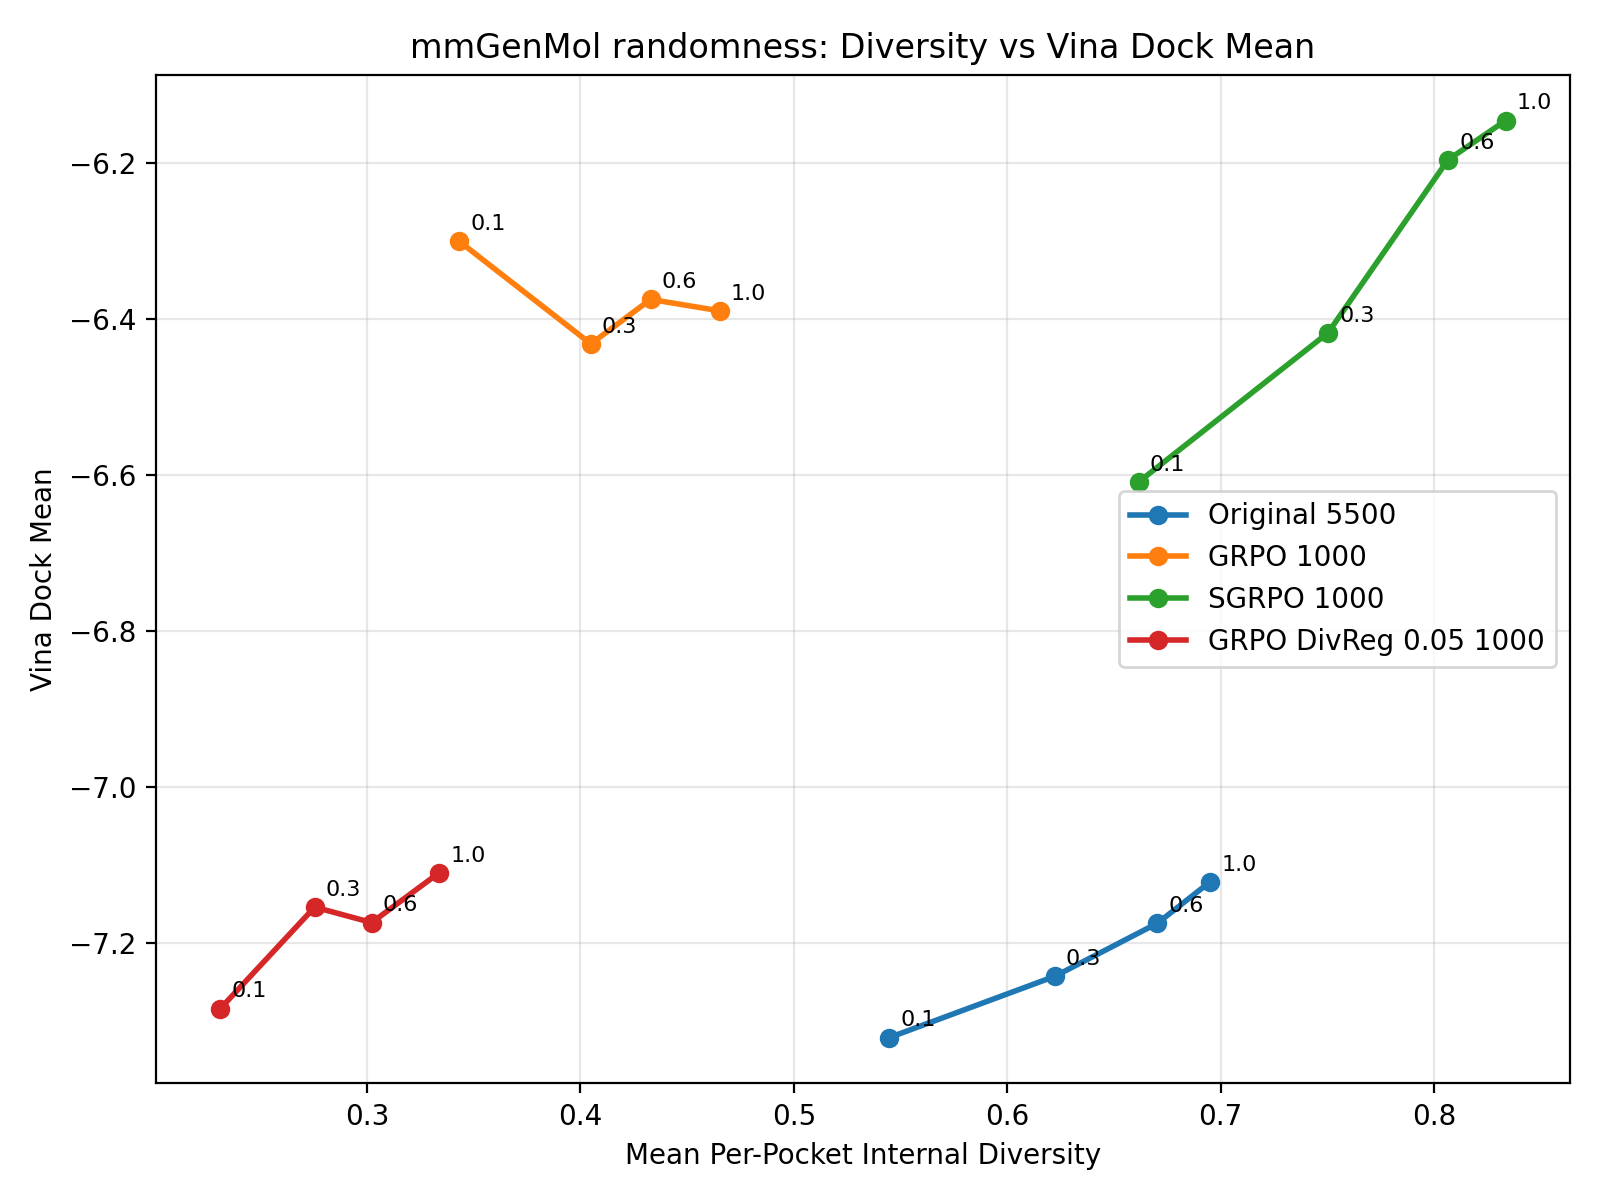
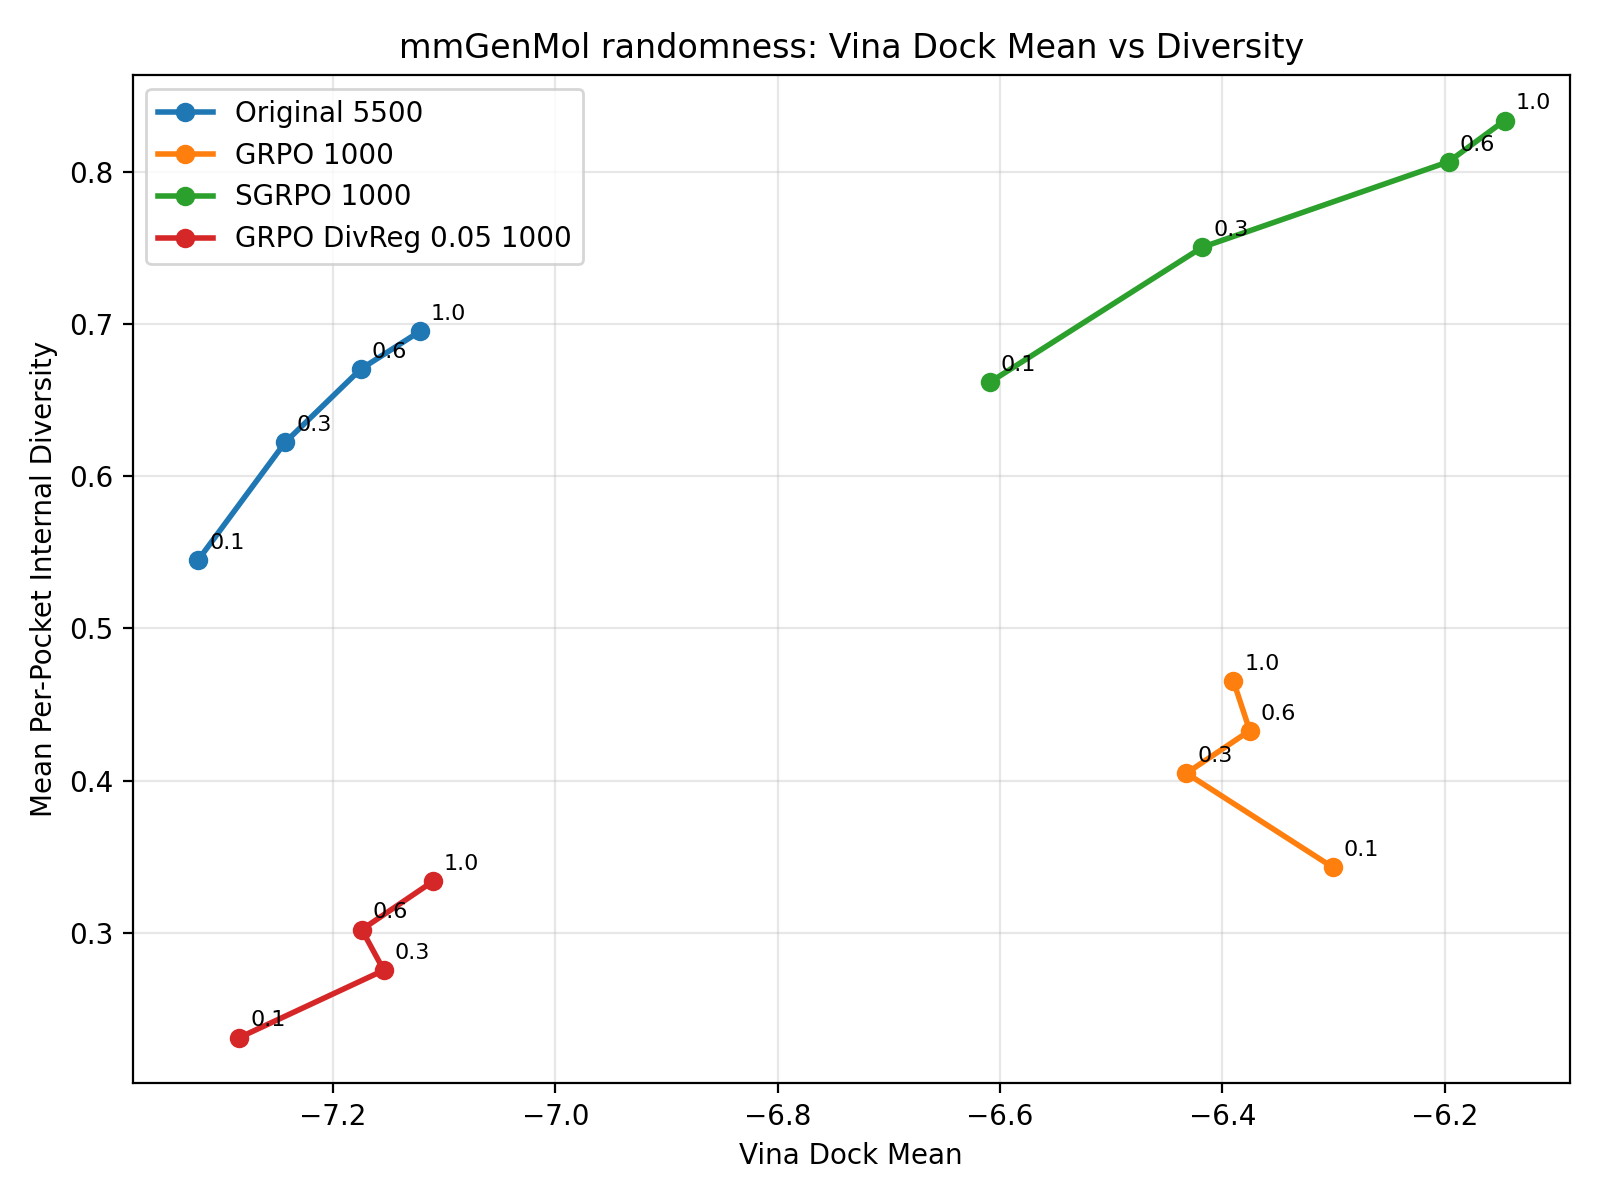
Replot mmGenMol diversity on y-axis

diff --git a/scripts/aggregate_mmgenmol_sweep_results.py b/scripts/aggregate_mmgenmol_sweep_results.py
@@ -422,7 +422,7 @@ def main():
                 f'mmgenmol_{sweep_type}_diversity_vs_{metric_key}_20260423.png',
             )
             _plot_metric(rows, sweep_type, metric_key, metric_label, plot_path)
-            plot_paths.append((f'{sweep_type} diversity vs {metric_label}', plot_path))
+            plot_paths.append((f'{sweep_type} {metric_label} vs diversity', plot_path))
 
     markdown = _build_markdown(rows, plot_paths, output_json_path, output_rows_path)
     with open(output_markdown_path, 'w') as handle:

diff --git a/sgrpo-main-results/README.md b/sgrpo-main-results/README.md
@@ -623,17 +623,17 @@ For each model and sweep point, group generated molecules by source_index. Compu
 - Docking mode for the main sweep: `vina_dock` only
 - `vina_dock_mean` is reported as raw Vina dock affinity; lower is better.
 
-##### `diversity` vs `qed_mean`
+##### `qed_mean` vs `diversity`
 
-![mmGenMol Randomness Diversity vs QED](mmgenmol/mmgenmol_randomness_diversity_vs_qed_mean_20260423.png)
+![mmGenMol Randomness QED vs Diversity](mmgenmol/mmgenmol_randomness_diversity_vs_qed_mean_20260423.png)
 
-##### `diversity` vs `sa_score_mean`
+##### `sa_score_mean` vs `diversity`
 
-![mmGenMol Randomness Diversity vs SA Score](mmgenmol/mmgenmol_randomness_diversity_vs_sa_score_mean_20260423.png)
+![mmGenMol Randomness SA Score vs Diversity](mmgenmol/mmgenmol_randomness_diversity_vs_sa_score_mean_20260423.png)
 
-##### `diversity` vs `vina_dock_mean`
+##### `vina_dock_mean` vs `diversity`
 
-![mmGenMol Randomness Diversity vs Vina Dock Mean](mmgenmol/mmgenmol_randomness_diversity_vs_vina_dock_mean_20260423.png)
+![mmGenMol Randomness Vina Dock Mean vs Diversity](mmgenmol/mmgenmol_randomness_diversity_vs_vina_dock_mean_20260423.png)
 
 #### Temperature Sweep
 
@@ -641,17 +641,17 @@ For each model and sweep point, group generated molecules by source_index. Compu
 - Docking mode for the main sweep: `vina_dock` only
 - `vina_dock_mean` is reported as raw Vina dock affinity; lower is better.
 
-##### `diversity` vs `qed_mean`
+##### `qed_mean` vs `diversity`
 
-![mmGenMol Temperature Diversity vs QED](mmgenmol/mmgenmol_temperature_diversity_vs_qed_mean_20260423.png)
+![mmGenMol Temperature QED vs Diversity](mmgenmol/mmgenmol_temperature_diversity_vs_qed_mean_20260423.png)
 
-##### `diversity` vs `sa_score_mean`
+##### `sa_score_mean` vs `diversity`
 
-![mmGenMol Temperature Diversity vs SA Score](mmgenmol/mmgenmol_temperature_diversity_vs_sa_score_mean_20260423.png)
+![mmGenMol Temperature SA Score vs Diversity](mmgenmol/mmgenmol_temperature_diversity_vs_sa_score_mean_20260423.png)
 
-##### `diversity` vs `vina_dock_mean`
+##### `vina_dock_mean` vs `diversity`
 
-![mmGenMol Temperature Diversity vs Vina Dock Mean](mmgenmol/mmgenmol_temperature_diversity_vs_vina_dock_mean_20260423.png)
+![mmGenMol Temperature Vina Dock Mean vs Diversity](mmgenmol/mmgenmol_temperature_diversity_vs_vina_dock_mean_20260423.png)
 
 ## ProGen2
 

diff --git a/sgrpo-main-results/mmgenmol/mmgenmol_sweep_results_20260423.md b/sgrpo-main-results/mmgenmol/mmgenmol_sweep_results_20260423.md
@@ -44,26 +44,26 @@
 | GRPO DivReg 0.05 1000 | temperature | 0.600000 | 0.294551 | 0.842423 | 0.812717 | -7.160457 | 0.989375 | 0.996250 |
 | GRPO DivReg 0.05 1000 | temperature | 1.000000 | 0.275579 | 0.846507 | 0.813896 | -7.192632 | 0.993125 | 0.996875 |
 
-## randomness diversity vs QED
+## randomness QED vs diversity
 
-![randomness diversity vs QED](mmgenmol_randomness_diversity_vs_qed_mean_20260423.png)
+![randomness QED vs diversity](mmgenmol_randomness_diversity_vs_qed_mean_20260423.png)
 
-## randomness diversity vs SA Score
+## randomness SA Score vs diversity
 
-![randomness diversity vs SA Score](mmgenmol_randomness_diversity_vs_sa_score_mean_20260423.png)
+![randomness SA Score vs diversity](mmgenmol_randomness_diversity_vs_sa_score_mean_20260423.png)
 
-## randomness diversity vs Vina Dock Mean
+## randomness Vina Dock Mean vs diversity
 
-![randomness diversity vs Vina Dock Mean](mmgenmol_randomness_diversity_vs_vina_dock_mean_20260423.png)
+![randomness Vina Dock Mean vs diversity](mmgenmol_randomness_diversity_vs_vina_dock_mean_20260423.png)
 
-## temperature diversity vs QED
+## temperature QED vs diversity
 
-![temperature diversity vs QED](mmgenmol_temperature_diversity_vs_qed_mean_20260423.png)
+![temperature QED vs diversity](mmgenmol_temperature_diversity_vs_qed_mean_20260423.png)
 
-## temperature diversity vs SA Score
+## temperature SA Score vs diversity
 
-![temperature diversity vs SA Score](mmgenmol_temperature_diversity_vs_sa_score_mean_20260423.png)
+![temperature SA Score vs diversity](mmgenmol_temperature_diversity_vs_sa_score_mean_20260423.png)
 
-## temperature diversity vs Vina Dock Mean
+## temperature Vina Dock Mean vs diversity
 
-![temperature diversity vs Vina Dock Mean](mmgenmol_temperature_diversity_vs_vina_dock_mean_20260423.png)
+![temperature Vina Dock Mean vs diversity](mmgenmol_temperature_diversity_vs_vina_dock_mean_20260423.png)
